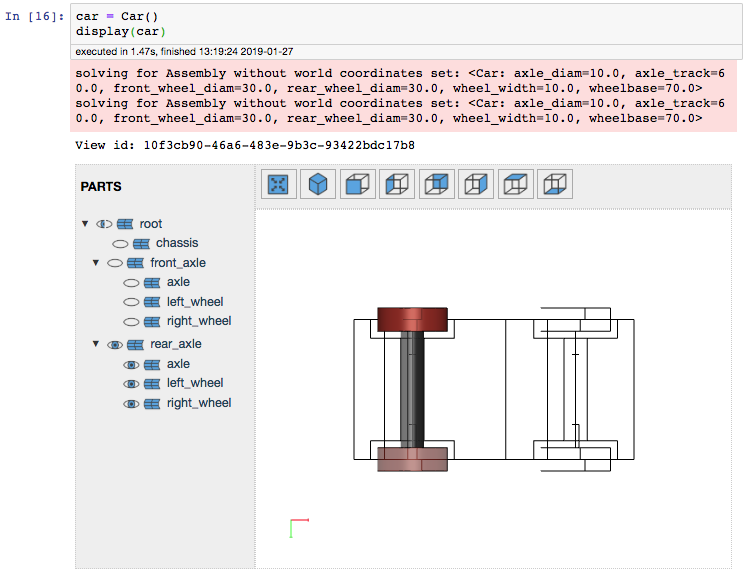
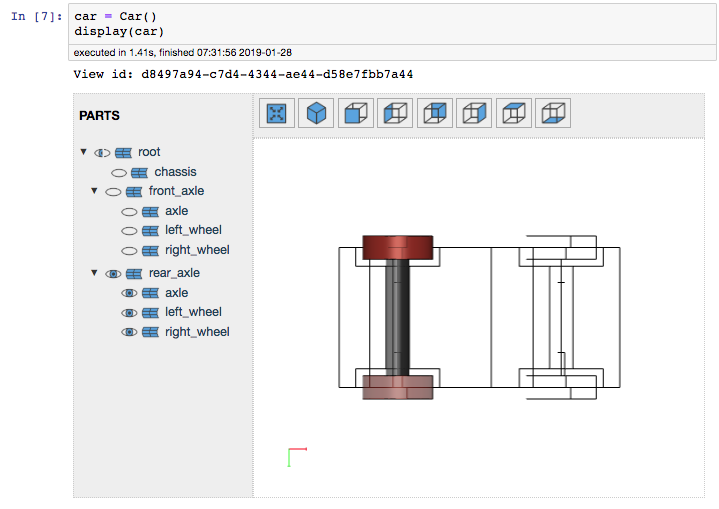
adapt documentation to display changes

Changed region(s): [[0.0, 0.0, 1.0, 0.7073], [0.459, 0.442, 0.8567, 0.8251], [0.3978, 0.8546, 0.4284, 0.9136]]

diff --git a/Readme.md b/Readme.md
@@ -20,15 +20,14 @@ If CQParts ([https://github.com/cqparts/cqparts](https://github.com/cqparts/cqpa
 
     - `name`: Assembly  name in the view
     - `objects`: all parts and assemblies included in the assembly as a list
-    - `height`: height of the view div (default: 400)
-    - `ortho`: use orthographic view (default: True)
-    - `fov`: field of view (used only for ortho=False) (default: 0.1)
-    - `debug`: print html string including the x3dom string for debugging (default: False)
 
 ## Integration into CadQuery and CQParts
 
+### Display a CAD object
+
 The extension is self contained, and comes with `display` function.
-`display(cadObj, ortho=True, debug=False, default_color=None)`
+
+`display(cadObj, ortho=True, debug=False, default_color=None)` with:
 
 - `cadObj` can be an instance of:
 
@@ -39,10 +38,28 @@ The extension is self contained, and comes with `display` function.
     - `cqparts.Assembly`
     - `cqparts.Part`
 
+- `height`: height of the view div (default: 400)
 - `ortho = True` means orthographic view else normal x3dom view
+- `fov`: field of view (used only for ortho=False) (default: 0.1)
 - `debug = True` allows to print out the HTML string of the view
-- `default_color` allows to set a default color if not set via `cq_jupyter.Assembly`
-or  `cq_jupyter.Part`
+- `default_color` allows to set a default color if not set via `cq_jupyter.Assembly` or  `cq_jupyter.Part`
+
+### Export a CAD object to STL
+
+Simple helper to export an CAD object to STL
+
+`exportSTL(cadObj, filename="/tmp/test.stl")` with:
+
+- `cadObj` can again be an instance of:
+
+    - `cadquery.Shape`
+    - `cadquery.Workplane`
+    - `cq_jupyter.Assembly`
+    - `cq_jupyter.Part`
+    - `cqparts.Assembly`
+    - `cqparts.Part`
+
+- `filename`: Path to STL write to write to.
 
 ## Installation
 
@@ -76,13 +93,14 @@ a = Assembly(
     [
         Part(box1, "red box", (1,0,0)),
         Part(box2, "green box", (0,1,0))
-    ],
+    ]
+)
+display(a,
     height=400,   # height of the view div
     ortho=True,   # use orthographic view
     fov=0.4,      # field of view (used only for ortho=False)
     debug=False   # print html string including the x3dom string for debugging
 )
-display(a)
 ```
 
 - **Normal view**:
@@ -114,22 +132,20 @@ Source: [https://cqparts.github.io/cqparts/doc/tutorials/assembly.html]( https:/
 
 - **Complete Toy car**
 
-![Toy Car](./screenshots/cqparts-toy-car.png)
+    ![Toy Car](./screenshots/cqparts-toy-car.png)
 
 - **Chassis only**
 
-![Chassis](./screenshots/cqparts-toy-car-chassis.png)
+    ![Chassis](./screenshots/cqparts-toy-car-chassis.png)
 
 - **Partly edges only**
 
-![Wire view](./screenshots/cqparts-toy-car-wires.png)
+    ![Wire view](./screenshots/cqparts-toy-car-wires.png)
 
 
 ## Known issues
 
 - **Too many WebGL contexts**: Browsers only support a fixed number of WebGL contexts. When this number is exceeded by rendereing multiple CadQuery objects or repeatedly rendering one object, a warning appears in the Javascript console "*WARNING: Too many active WebGL contexts. Oldest context will be lost.*" and older renderings in the notebook get lost.
-
-- **CQParts warning**: CQParts shows the warning about "*solving for Assembly without world coordinates ...*", however, works fine
 
 
 ## Credits
